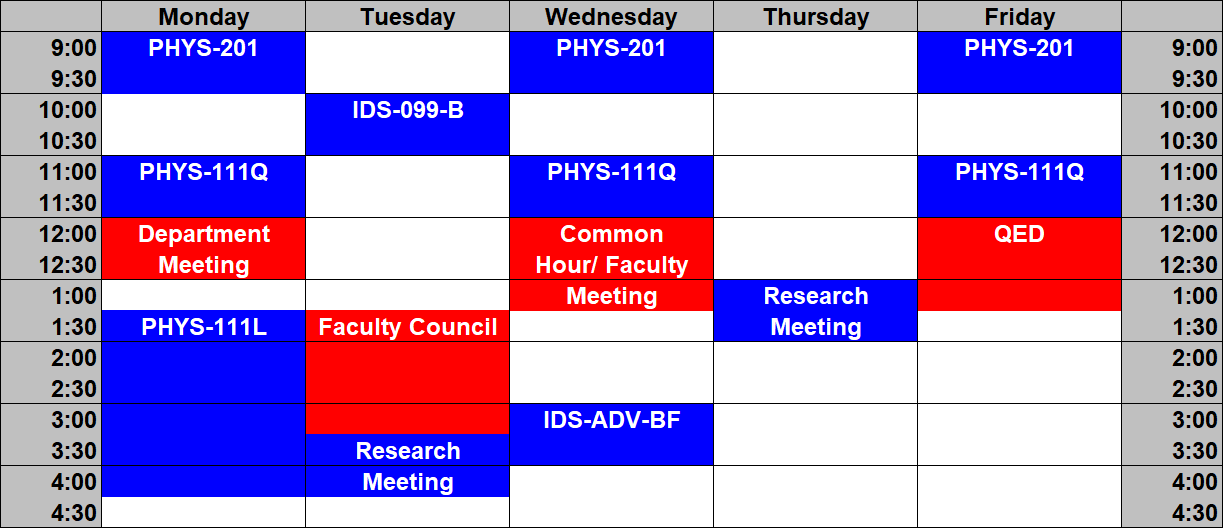
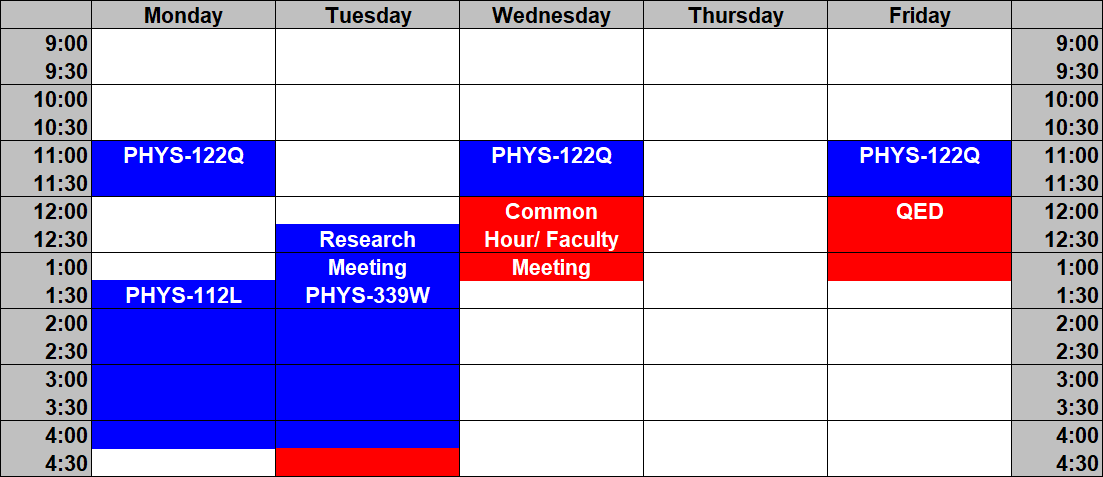
Spring 2025 update (very late in the game ...)

diff --git a/index.md b/index.md
@@ -4,10 +4,10 @@ Professor at [Ursinus College](https://www.ursinus.edu) in [Physics & Astronomy]
 Mastodon: <a  rel="me" href="https://mas.to/@lewriley">@lewriley@mas.to</a><BR />
 he|him
 
-### Fall 2024 Courses
-- [PHYS-201: *Classical Mechanics*](https://ursinus.instructure.com/courses/18593)
-- [PHYS-111Q.A: *General Physics I*](https://ursinus.instructure.com/courses/18543)
-- PHYS-111L.A: *General Physics I Lab*
+### Spring 2025 Courses
+- [PHYS-122Q: *Electromagnetism*](https://ursinus.instructure.com/courses/19132)
+- [PHYS-339W: *Advanced Physics Laboratory II*](https://ursinus.instructure.com/courses/19151)
+- PHYS-112L.A: *General Physics II Lab*
 
 ### Spring and Summer 2024
 Alyssa Himmelreich (UC Physics '26) and Blake McNulty (UC Pre-Engineering '26) traveled to the Facility for Rare Isotope Beams (FRIB) at Michigan State University to complete inverse-kinematics proton scattering measurements of the <I>N=28</I> isotones <SUP>44</SUP>S and <SUP>42</SUP>Si. The combined results of the Coulomb excitation and proton scattering measurements of <SUP>42</SUP>Si will shed light on the relative contributions of neutrons and protons to the collective excitation of this nucleus.

diff --git a/schedule.md b/schedule.md
@@ -1,4 +1,4 @@
-## Fall 2024 Schedule
+## Spring 2025 Schedule
 
 ![Schedule](/assets/img/schedule.png) 
 
